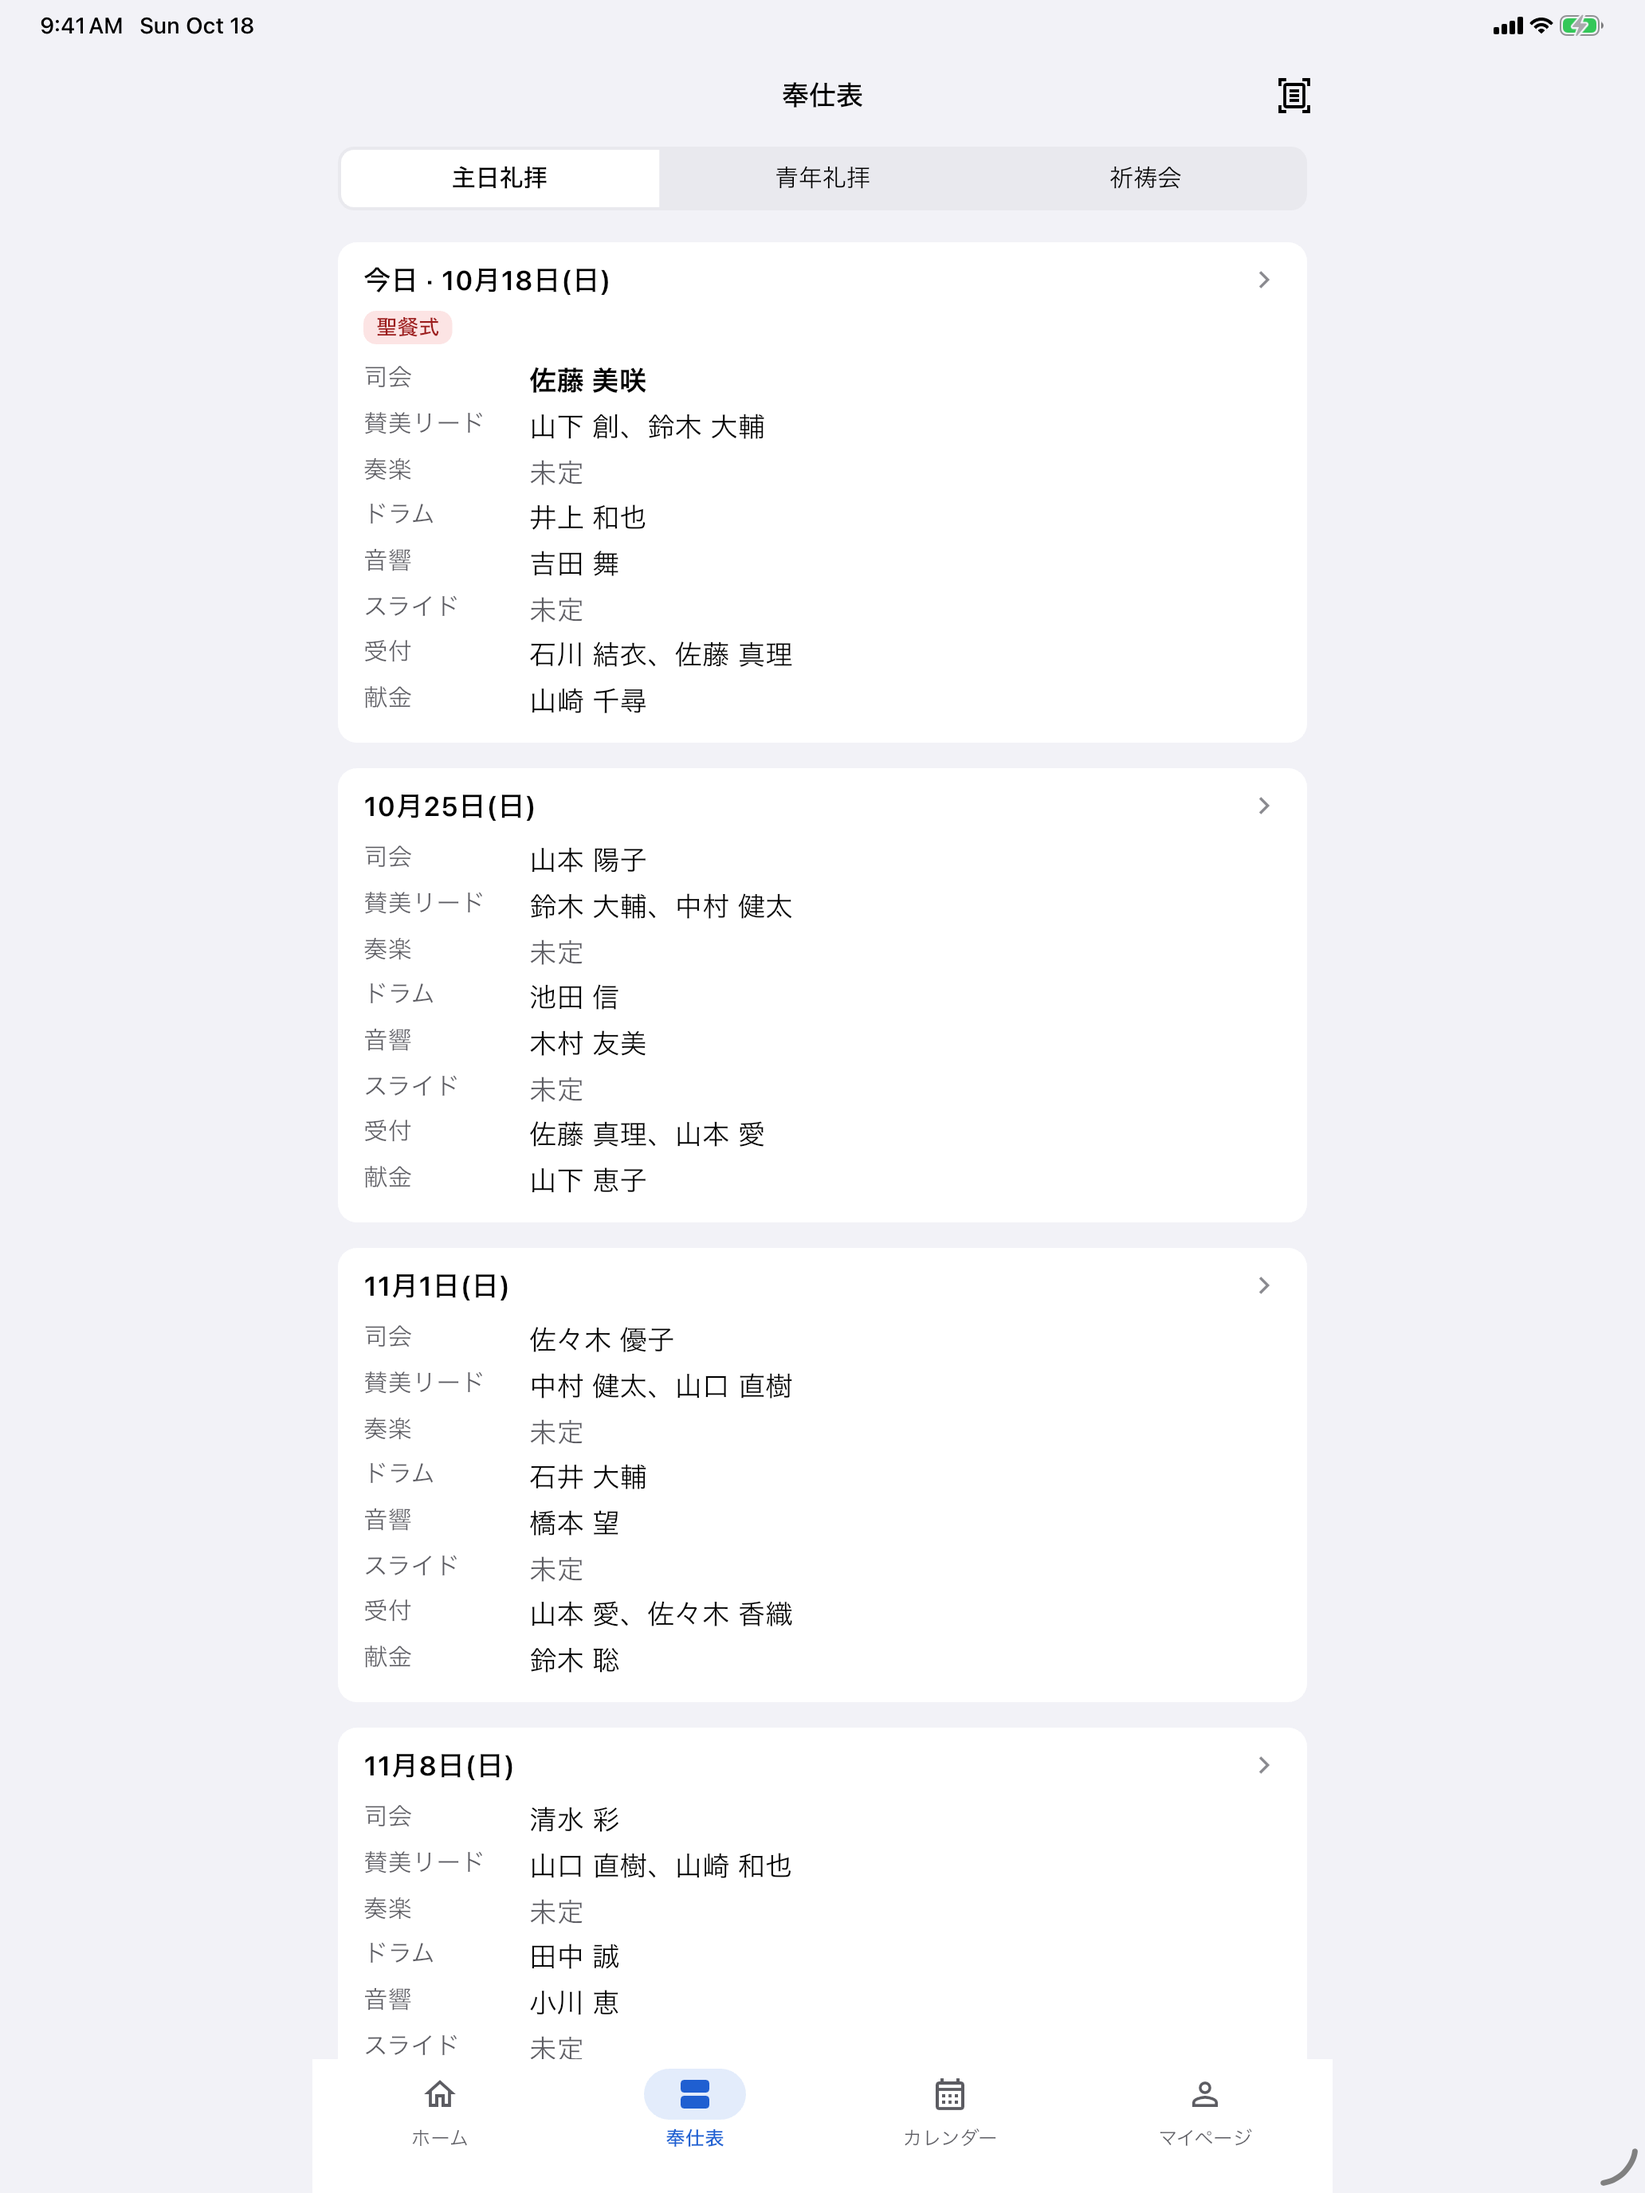
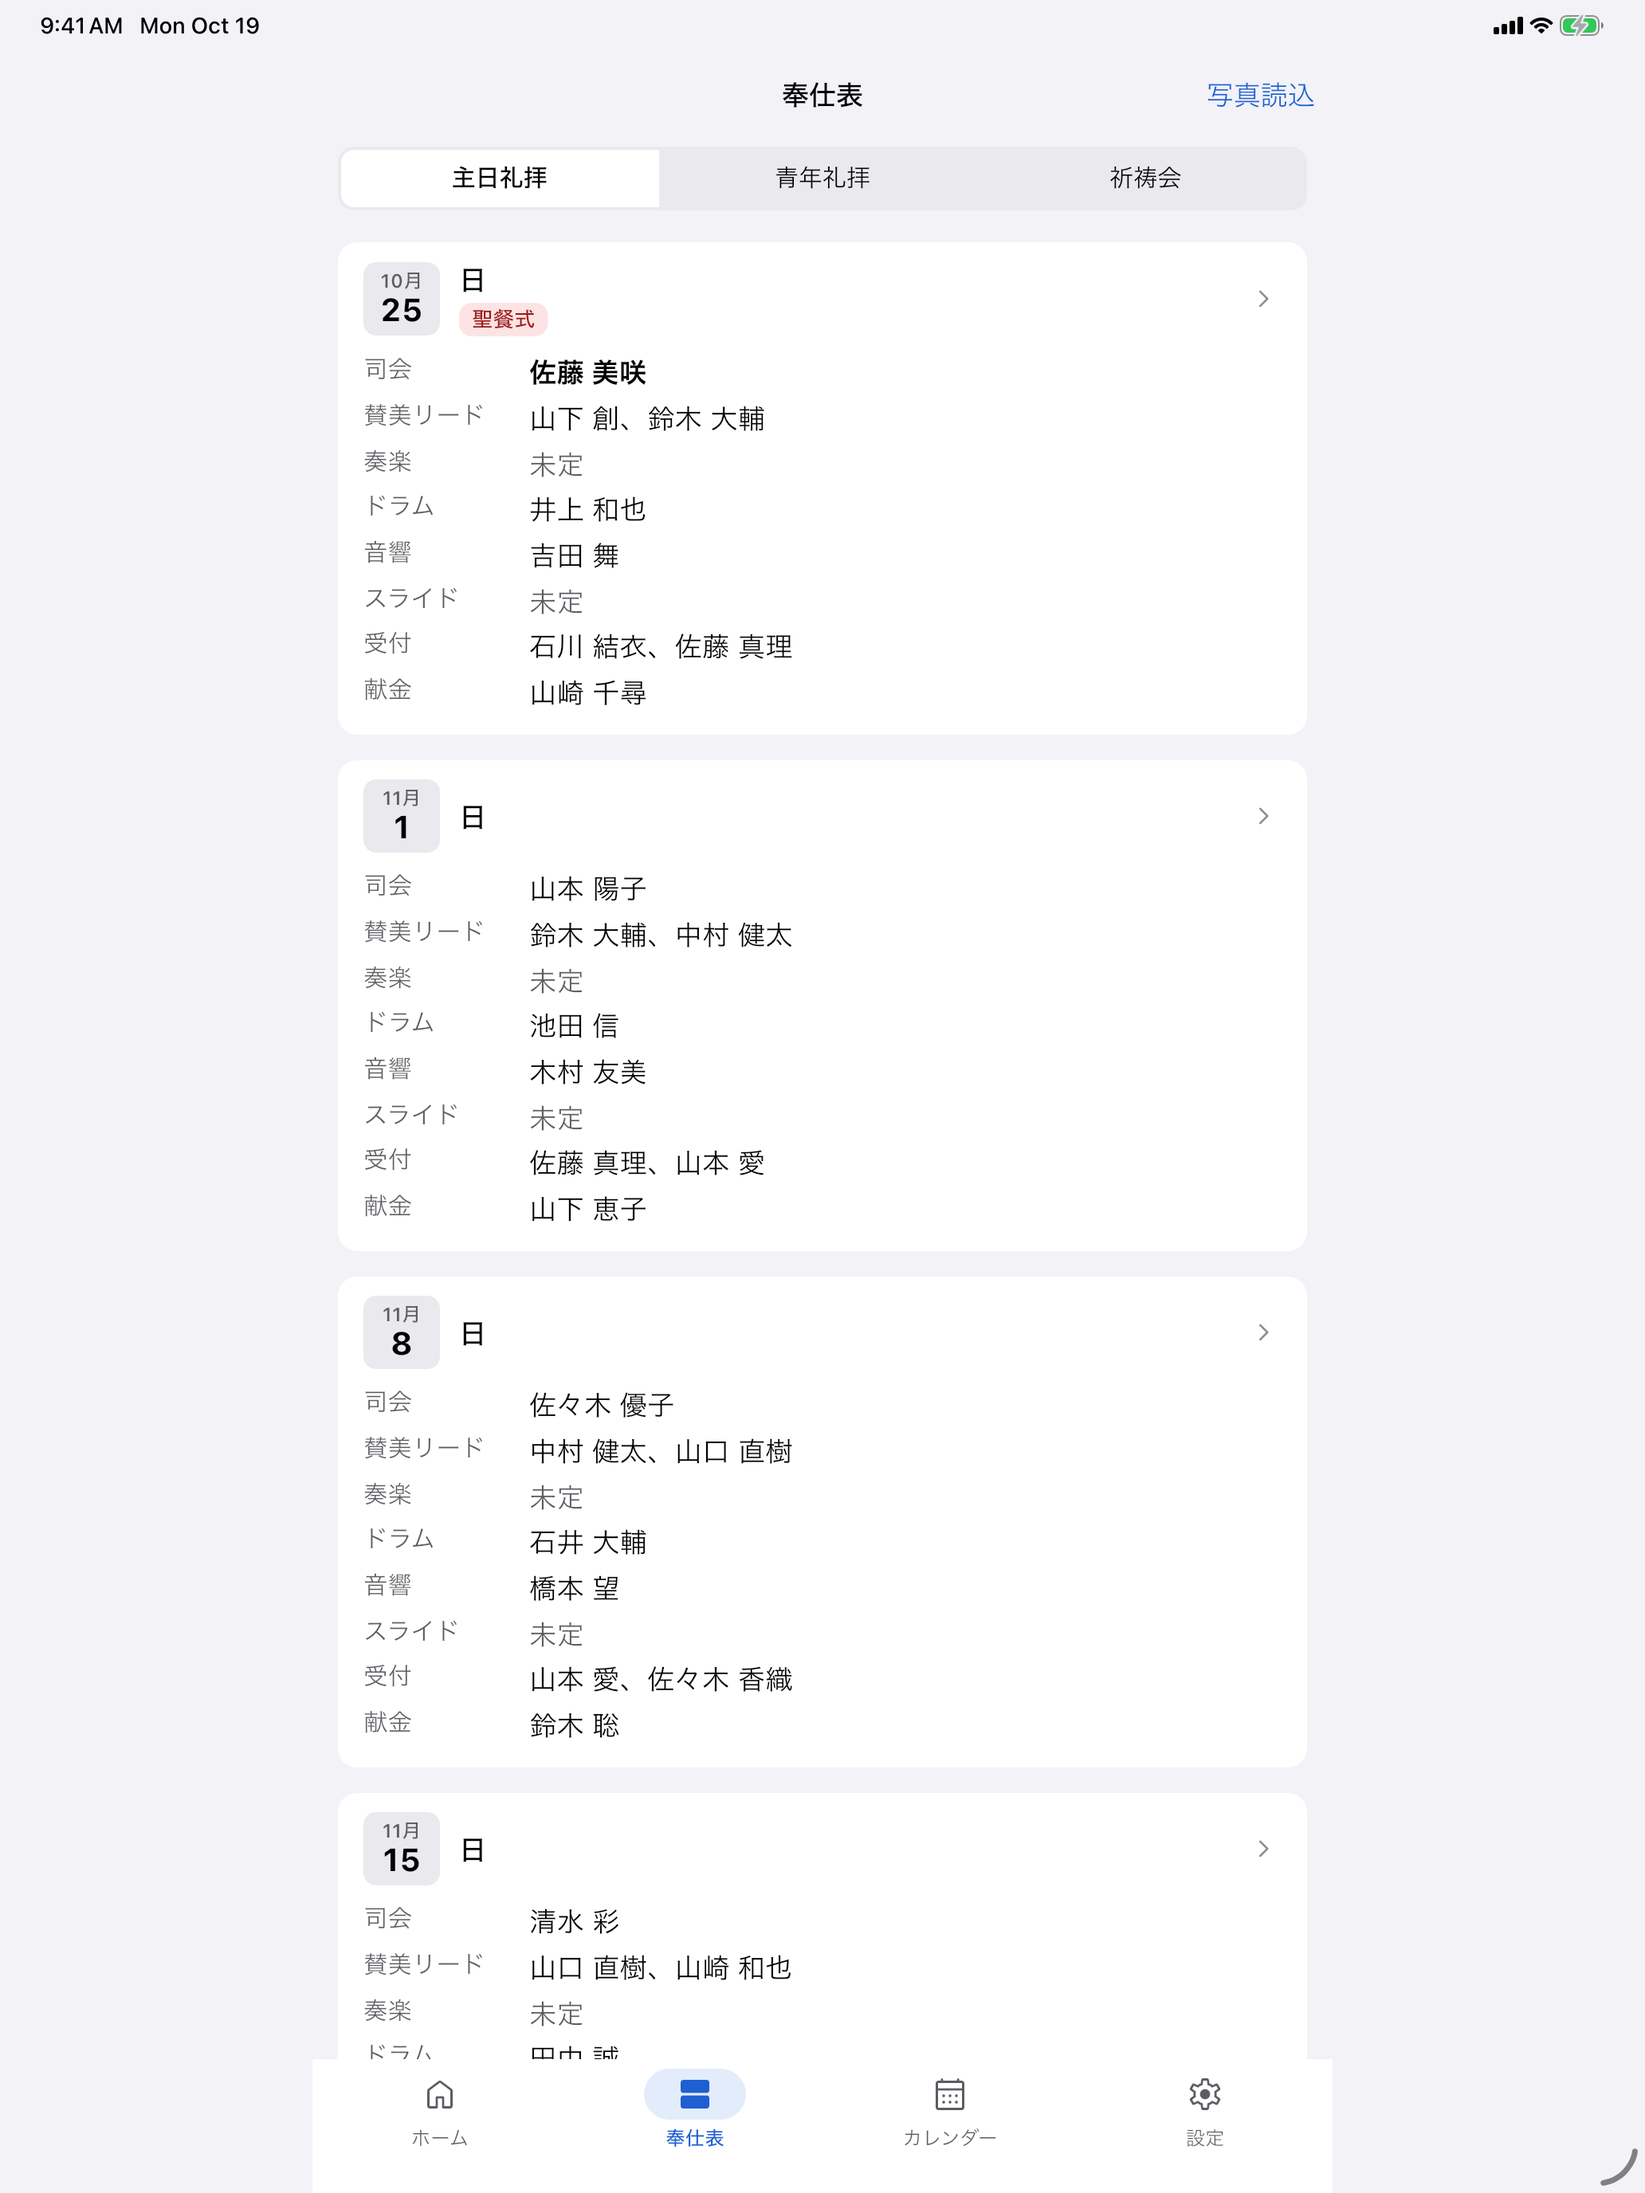
chore: App Store screenshots with the 設定 tab and the 照片匯入 button
Claude-Session: https://claude.ai/code/session_01JnpqJZ8yFt9XELS1EHQ2sL

diff --git a/docs/firebase-setup.md b/docs/firebase-setup.md
@@ -100,7 +100,7 @@ xcrun altool --upload-app -t ios -f build/ios/ipa/*.ipa --apiKey <金鑰 ID> --a
 
 API 金鑰放在 `~/.appstoreconnect/private_keys/AuthKey_<金鑰 ID>.p8`，altool 會自己找到。`Info.plist` 寫了 `ITSAppUsesNonExemptEncryption = false`（只用 HTTPS），上傳後不用每次回答出口合規。
 
-**App Store 截圖**（`store/ios/<語言>-<iphone|ipad>-<n>.png`）：示範模式加 `--dart-define=DEMO_ROUTE=<頁面>` 會直接開在那一頁，不用點。`flutter build ios --simulator --debug --dart-define=MARTHA_ENV=demo --dart-define=DEMO_ROUTE=/rosters`，裝到 iPhone 17 Pro Max（6.9 吋）和 iPad Pro 13 吋模擬器，`xcrun simctl status_bar <裝置> override --time 9:41 …`，每種語言先 `xcrun simctl spawn <裝置> defaults write app.marthasit AppleLanguages -array <語言>` 再重開 App，`xcrun simctl io <裝置> screenshot` 拍。現在是兩張：`/rosters/sunday/<日期>` 和 `/rosters`。用 API 的 `appScreenshotSets`（`APP_IPHONE_67`、`APP_IPAD_PRO_3GEN_129`）上傳。
+**App Store 截圖**（`store/ios/<語言>-<iphone|ipad>-<n>.png`）：示範模式加 `--dart-define=DEMO_ROUTE=<頁面>` 會直接開在那一頁，不用點。`flutter build ios --simulator --debug --dart-define=MARTHA_ENV=demo --dart-define=DEMO_ROUTE=/rosters`，裝到 iPhone 17 Pro Max（6.9 吋）和 iPad Pro 13 吋模擬器，`xcrun simctl status_bar <裝置> override --time 9:41 …`，每種語言先 `xcrun simctl spawn <裝置> defaults write app.marthasit AppleLanguages -array <語言>` 再重開 App，`xcrun simctl io <裝置> screenshot` 拍。現在是兩張：`/rosters/sunday/<下一個主日>` 和 `/rosters`（示範教會的服事表從今天算起）。用 API 的 `appScreenshotSets`（`APP_IPHONE_67`、`APP_IPAD_PRO_3GEN_129`）上傳。
 
 **建好馬上上傳，或先複製一份**：之後跑 `shorebird patch` 會用修補的程式碼重建，蓋掉 `app/build/app/outputs/bundle/release/app-release.aab`。`shorebird preview` 下載到 `~/.shorebird/bin/cache/previews/` 的 AAB 也被改過，Play 會說簽章無效，不能上傳。1.0.0+13 就是這樣作廢的，所以從 +14 開始上架。
 
